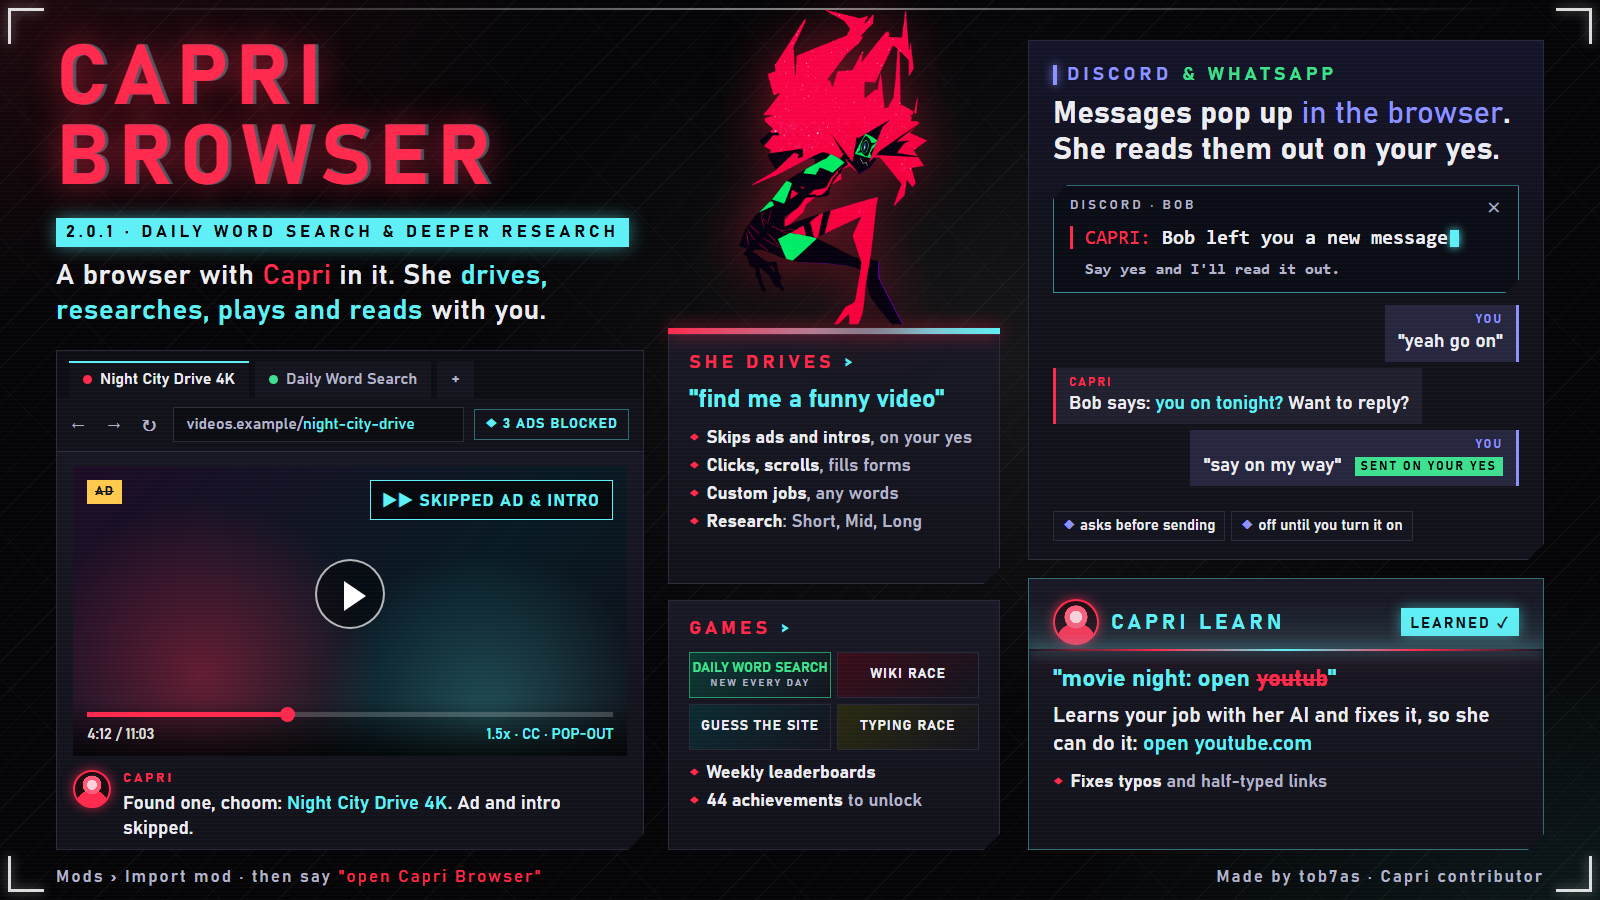
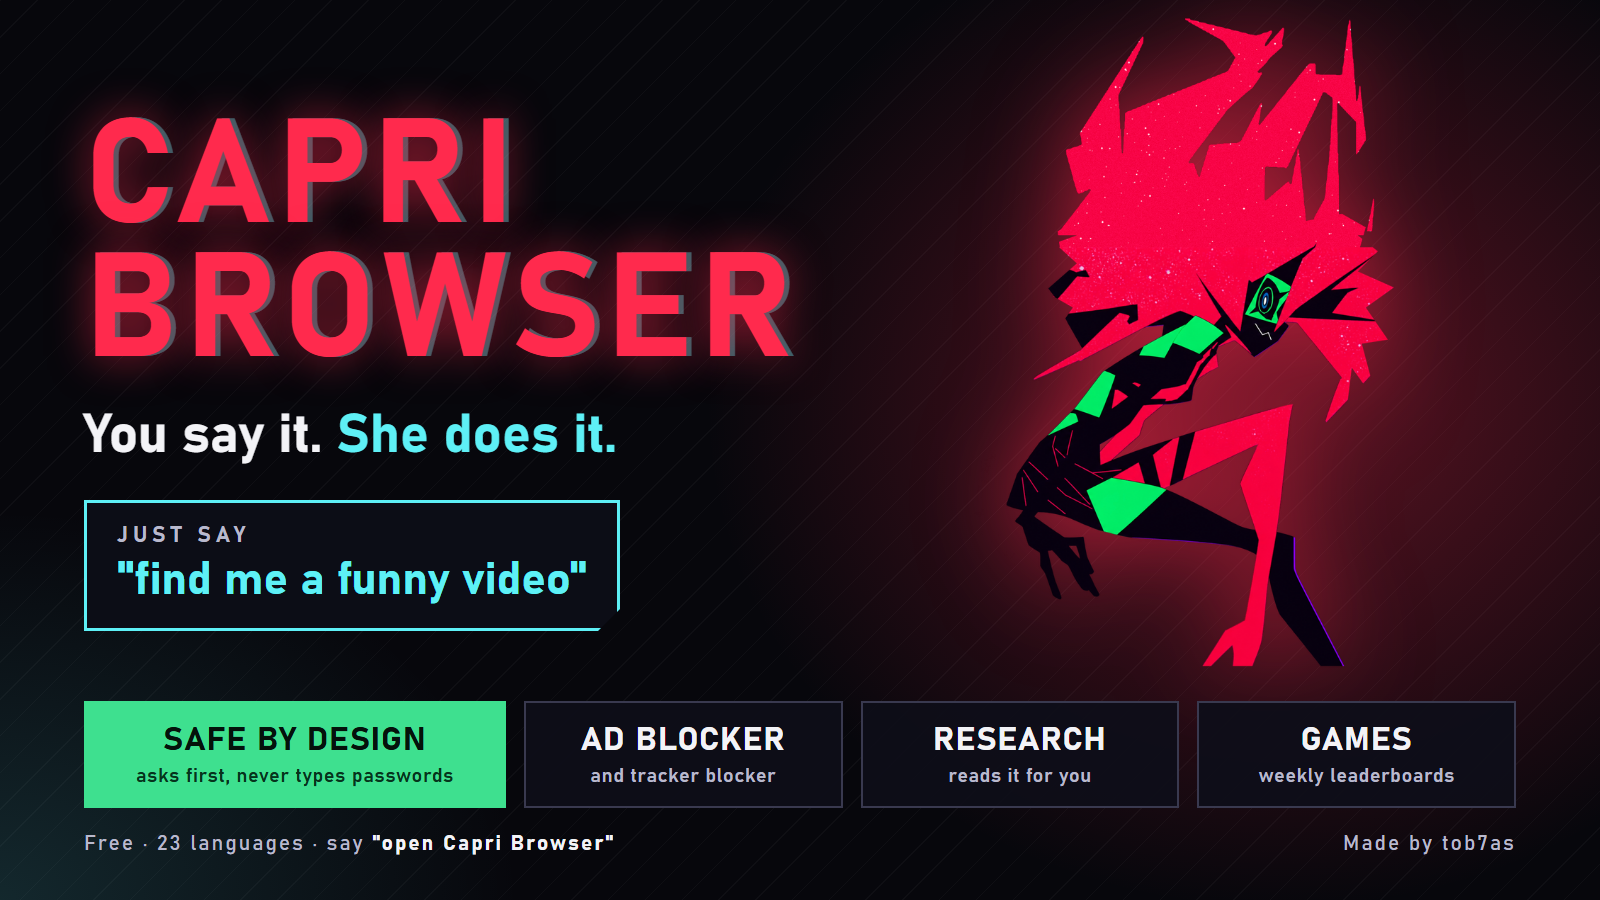
Capri Browser 2.0.2: Updates page, clearer setting names, new picture and description

diff --git a/mods/capri-internal-browser/README.md b/mods/capri-internal-browser/README.md
@@ -1,12 +1,23 @@
 # Capri Browser
 
-Capri's own web browser, so she browses with you: she opens sites, finds and plays videos, and reads pages out loud. Say "Capri, research this for me" (smart research that works even with small brains) or "Capri, find a cheaper one". Custom jobs, games, stats and weekly leaderboards, a strong ad and tracker blocker, in 23 languages. Just updated? Remember to open Capri Browser from Play.
+You say it, Capri does it: a real web browser she uses with you. "Find me a funny video" and it's playing. "Research this for me" and she reads the sites. "Find it cheaper" and she hunts for a better price. Blocks ads and trackers, runs your own custom jobs, has games with weekly leaderboards, and speaks 23 languages. Safe by design: she asks before sending messages or forms, never types your passwords, has no telemetry, and every add-on file is checked. Right-click Capri > Play to open it.
 
 - Kind: code mod
-- Version: 2.0.1
+- Version: 2.0.2
 - Made by: tob7as
-- Needs: **Capri 0.9.4 or newer** on **Windows 10 or 11** (about 1020 KiB of readable code, under the 1 MiB code mod limit). It uses Microsoft Edge's WebView2 engine, which comes with both
+- Needs: **Capri 0.9.4 or newer** on **Windows 10 or 11** (about 970 KiB of readable code, under the 1 MiB code mod limit). It uses Microsoft Edge's WebView2 engine, which comes with both
 - Windows only
+
+## Is it safe?
+
+- **Checked before it's listed.** Every mod in this repo is checked for malware before it goes up, and all of this one's code is readable here.
+- **She asks first.** Sending a message, filling in and sending a form, or clicking on a messaging site waits for your own yes. Text on a web page can't say yes for you.
+- **Your passwords stay yours.** Capri never reads or types them. Saved ones are encrypted by Windows on your PC, and Windows Hello can guard them (off until you turn it on).
+- **No telemetry, no account, no keys inside.** Page text only goes to her brain when you ask about a page or use a feature that says so. Private tabs are never read. What is sent, and where, is listed below.
+- **Nothing can be swapped.** Games, lists and pages are checked against fingerprints inside the mod, and anything that doesn't match is thrown away.
+- **You're in charge.** Esc stops her, Discord features start off, and features can be switched off in Settings.
+
+Like any browser, the websites you visit can see what you do on them. Blocked ads and warnings help, but no browser can promise a bad site is harmless.
 
 ## Say this
 
@@ -57,7 +68,7 @@ Capri's own web browser, so she browses with you: she opens sites, finds and pla
 
 ### Discord (off until you turn it on)
 
-Turn on **Message via Discord in the browser** in Settings > Capri features. Capri finds the person, server or channel, then tells you exactly who and what and **waits for you to say yes** before she sends, calls or joins. She only acts on your own yes, never on something she read on a page.
+Turn on **Send Discord messages for you** in Settings > Discord. Capri finds the person, server or channel, then tells you exactly who and what and **waits for you to say yes** before she sends, calls or joins. She only acts on your own yes, never on something she read on a page.
 
 | Say | She does |
 | --- | --- |
@@ -95,6 +106,7 @@ If she still can't do a step she tells you which, and the job's card says so. St
 
 ## Also in it
 
+- **New in 2.0.2:** Settings are sorted into groups with a search box. Custom jobs can listen for your words while they run (listen for "skip" = next video), repeat a number of times or forever, and wait a random time; "put on something chill" searches and plays something, Esc always stops a job, and she says which steps she couldn't do. **Don't use my mouse** lets jobs run in their own tab while you do other things. **Open Capri Browser when Capri starts with your PC** (off by default; the mod adds nothing to Windows start-up, it uses Capri's own Start with Windows). **Windows Hello** before a saved password is shown, copied or filled (off by default). **Backup and restore** for notes, bookmarks, Speed Dial, jobs and settings (never passwords). **Hide Capri while a video is full screen**, with a side button to bring her back (off by default). A research progress card, crash recovery, and Capri Cleaner now lives in Settings > Cleaner & backup.
 - **New in 2.0.1:** after an update Capri reminds you to open Capri Browser from Play. Write a custom job the way you'd say it and she splits it into steps (Capri learn too), keeping every line; "put it in my work notes" files the summary and screenshot there, and "open any website" picks one for you. The Summarise button shows her reading scan. Your Anime site and Video site (custom links too) are always used unless you name another one. Switch tabs while she works and she carries on in hers, leaving the mouse alone while you use it. Settings and message notifications follow your colour theme, and your font and text size work on all of Capri Browser's own pages. The pencil on a Speed Dial tile lets you **Change image**, **Edit name** or **Edit link**. Right-click any picture and pick **Make wallpaper**: it is fitted and smoothed to your screen, and Change wallpaper lists your newest pictures first. Useful information has a new Games section (select it to open the Games page) and explains highlight and right-click, research, custom jobs and more. Every game shows on the Games page straight away, and **Daily Word Search** gives everyone the same new puzzle each day (140 themes, a hard one every third day) (keep your streak, copy your time to share). The tracker blocker catches more (including the Facebook and LinkedIn pixels) and works before you download the add-ons. All-time stats show how many ads, trackers and pop-ups the ad blocker has stopped. All-time stats also show your word searches and a Capri Helped You section (things researched, jobs, messages read out, skips), all kept on your PC, and there are 27 new achievements. Sketchy downloads (a program from a site she doesn't know, or a file pretending to be a picture or document) wait for your yes. Game mode can switch on by itself when a full-screen game starts. Capri's notifications can all be turned off with one switch, or one by one. You choose which numbers go on the leaderboards, and a new best tells you where it would place. Research can be Short, Mid or Long, and she asks if you want her to keep researching (new sites, without repeating herself). Code Breach and Mystery Choom are retired.
 - **Noted**: notes as a chat with yourself. Leave a note in the box at the bottom (Enter sends), paste or attach pictures and files, add the page's link, and make your own Noted chats (Capri only uses yours and asks "Should I add it to Shopping notes?"). Right-click a card to edit, copy, move or delete it.
 - **Bookmarks**: the star on the sidebar (Ctrl+Shift+B), with folders, search, drag and drop, and Import from Opera GX, Opera, Chrome, Edge, Brave or Vivaldi (read from their file on your PC only when you press it). The star in the address box bookmarks the page (Ctrl+Shift+D).
@@ -118,7 +130,7 @@ If she still can't do a step she tells you which, and the job's card says so. St
 
 - **It replaces two of her tools.** While the mod is on, her `open_app` (for browsers) and `open_website` tools open pages in Capri Browser instead of your normal browser.
 - **It adds a `capri_browser` tool** she uses to open, search, read, click, type and scroll. On messaging and social sites (Discord, Gmail, Outlook, WhatsApp, Messenger, Facebook, Instagram, X, Reddit, Telegram, Slack, Teams, LinkedIn, TikTok, Snapchat, Bluesky) a click, typing or Enter **waits for your yes**, so text on a page can't make her send something.
-- **It moves your real mouse and presses keys.** Before she clicks, skips, plays or scrolls on a page, the mouse glides to that spot with the takeover animation (Settings > Capri features > Move the real mouse turns this off; the action itself still happens). It only clicks for real to press a Skip button you said yes to, and for full screen on sites that need a real click (it also presses F there).
+- **It moves your real mouse and presses keys.** Before she clicks, skips, plays or scrolls on a page, the mouse glides to that spot with the takeover animation (Settings > Capri features > Move the mouse when Capri uses a page turns this off; the action itself still happens). It only clicks for real to press a Skip button you said yes to, and for full screen on sites that need a real click (it also presses F there).
 
 ## What it sends, and where
 
